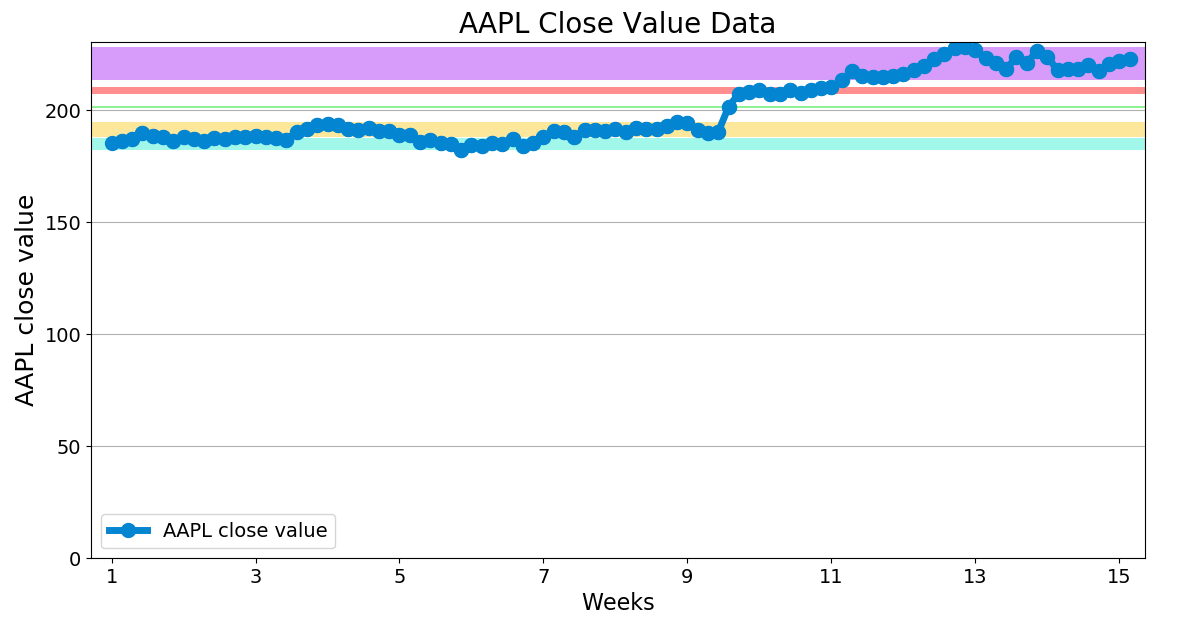
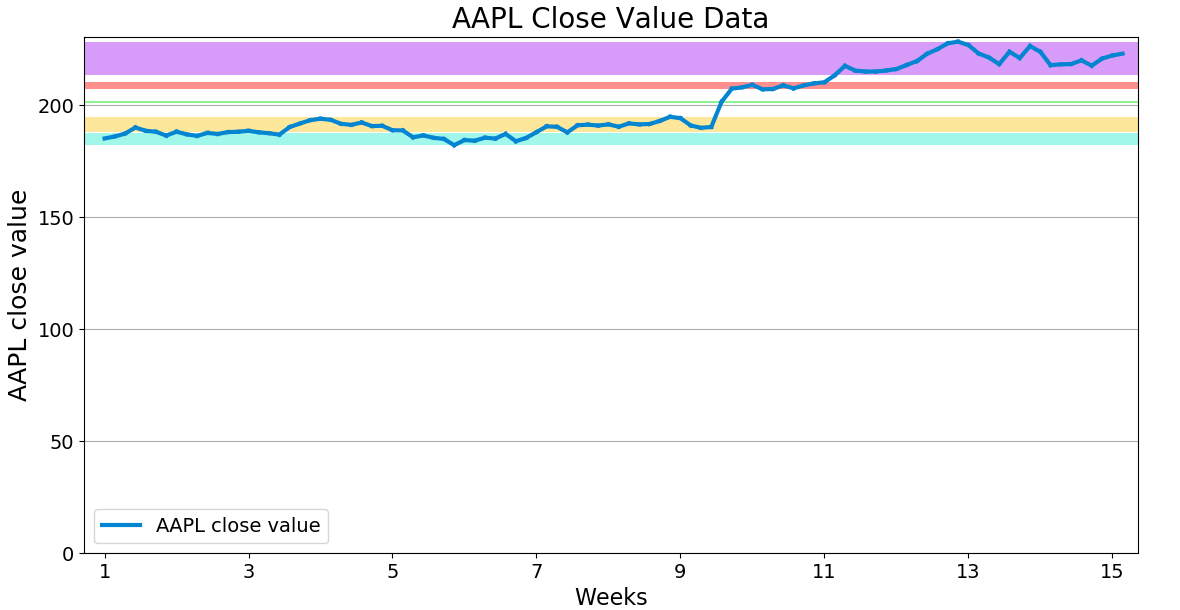
Update provenance charts

diff --git a/proto_lib.py b/proto_lib.py
@@ -132,12 +132,12 @@ def show_provenance(key_list,data_list,tw,heat_map_list,indices=None,multicolor=
     #plt.grid()
     colors = ['xkcd:cerulean','xkcd:violet']
     locs = ["lower left", "lower right"]
-    
+    #input()
     if showgoal:
         if heart_goal:
             axes[0].plot([70]*(len(data_list[0])+1),color='Red')
             axes[0].plot([110]*(len(data_list[0])+1),color='Red')
-        elif "Calorie Intake" in key_list::
+        elif "Calorie Intake" in key_list:
             axes[0].plot([2000]*(len(data_list[0])+1),color='Red')
         
     for i in range(len(axes)):
@@ -149,6 +149,7 @@ def show_provenance(key_list,data_list,tw,heat_map_list,indices=None,multicolor=
         complete_color = False
         cnt = 0
         label_set = set()
+        #input(indices)
         for j in range(len(data)):
             color = colors[i]
             label = None
@@ -193,12 +194,16 @@ def show_provenance(key_list,data_list,tw,heat_map_list,indices=None,multicolor=
                 
             if j != len(data)-1:
                 #print(j,j+1,data[j],data[j+1],color)
-                ax.plot([j,j+1],[data[j],data[j+1]],color=color,label=label,linewidth=5,marker='o',markersize=10)
+                #input(color)
+                #ax.plot([j,j+1],[data[j],data[j+1]],color=color,label=label,linewidth=5,marker='o',markersize=10)
+                ax.plot([j,j+1],[data[j],data[j+1]],color=color,label=label,linewidth=3)
             else:
                 #print(j)
                 if indices != None and j in indices and multicolor:
                     color = 'xkcd:red orange'
-                ax.plot([j],[data[j]],color=color,label=label,linewidth=5,marker='o',markersize=10)
+                #input(color)
+                #ax.plot([j],[data[j]],color=color,label=label,linewidth=5,marker='o',markersize=10)
+                ax.plot([j],[data[j]],color=color,label=label,linewidth=3)
             
             if complete_color == True:
                 index = j
@@ -206,7 +211,8 @@ def show_provenance(key_list,data_list,tw,heat_map_list,indices=None,multicolor=
                     index = j-1
                 #print(index,indices[len(indices)-1])
                 if not (trailing and index not in indices):
-                    ax.plot([index],[data[index]],color='xkcd:red orange',label=None,linewidth=5,marker='o',markersize=10)
+                    #ax.plot([index],[data[index]],color='xkcd:red orange',label=None,linewidth=5,marker='o',markersize=10)
+                    ax.plot([index],[data[index]],color='xkcd:red orange',label=None,linewidth=3,marker='o',markersize=5)
                 #else:
                     #print(index,data[index])
                 complete_color = False
